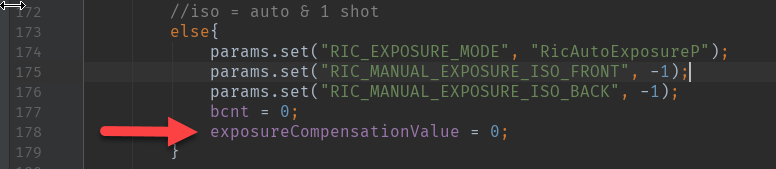
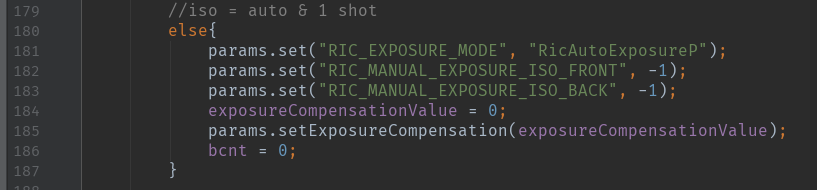
updated docs for 7 image modification

Changed region(s): [[0.1237, 0.0296, 0.9588, 0.9172], [0.0, 0.0, 0.0619, 1.0], [0.9278, 0.3254, 0.9588, 0.355]]

diff --git a/docs/fisheye.md b/docs/fisheye.md
@@ -314,45 +314,40 @@ tutorial, we will use this variable to move the exposure compensation from -6 to
 
 #### 3. Reset Bracket Count and exposureCompensationValue
 
-At roughly line 167, reset the variable bcnt to the numberOfImages.
+At roughly line 175, reset the variable bcnt to the numberOfImages.
 
 Set exposureCompensationValue to -6.
+Set bcnt to numberOfImages.
 
 ![Reset Bracket Count](example/img/fisheye/reset-bcnt.png)
 
-Note that in the example above, I needed to adjust the RIC_EXPOSURE_MODE to 
+Note that in the example above, RIC_EXPOSURE_MODE is set to 
 RicAutoExposureP for the EV compensation to take effect. The current
 Camera API documentation indicates that only *RicAutoExposureT*, 
-*RicAutoExposureP*, or *RicAutoExposureWDR* can set exposure compensation.
+*RicAutoExposureP*, or *RicAutoExposureWDR* can set 
+exposure compensation.
 
 In single shot mode, the exposureCompensation will be zero.
 
 ![Single shot](example/img/fisheye/exposureCompensationZero.png)
 
 If you have any problems following this example, you can also copy and
-paste the relevant sections from the completed file on GitHub 
-[MainActivity.java](https://github.com/codetricity/theta-7-image-dual-fisheye/blob/master/app/src/main/java/com/theta360/pluginapplication/MainActivity.java).
+paste the relevant sections from the completed file on GitHub, 7-image branch.
 
 
 #### 4. Locate nextShutter()
 
-At roughly line 192, identify the section for `nextShutter()`
+At roughly line 203, identify the section for `nextShutter()`
 
 ![nextShutter()](example/img/fisheye/next-shutter.png)
 
-#### 5. Create if statement for modification
+#### 5. Locate bracket section
 
-We will use an if statement to isolate your modification and preserve
-the original 3 image algorithm as a reference.
+At roughly line 211, look for the line `if(bcnt > 0)`. 
 
-At roughly line 200, look for the line `if(bcnt > 0)`. Inside that 
-statement create an if statement under the line, 
+![if bcnt](example/img/fisheye/if-bcnt.png)
 
-    params.set("RIC_SHOOTING_MODE", "RicStillCaptureStd");
-
-Below this line, add `if (numberOfImages == 7) {}`
-
-![if statement](example/img/fisheye/if-statement.png)
+The code after the `else` statement handles single shot mode.
 
 #### 6. Review Exposure Compensation API 
 
@@ -384,14 +379,16 @@ The code for setting exposure compensation is shown below.
     if(bcnt > 0) {
         params = mCamera.getParameters();
         params.set("RIC_SHOOTING_MODE", "RicStillCaptureStd");
-        if (numberOfImages == 7) {
-            params.setExposureCompensation(exposureCompensationValue);
-            exposureCompensationValue = exposureCompensationValue + 2;
-        } else {
-            params.setExposureCompensation(3 * ((bcnt - 2)));
-        }
+        exposureCompensationValue = exposureCompensationValue + 2;
+        params.setExposureCompensation(exposureCompensationValue);
 
         bcnt = bcnt - 1;
+        mCamera.setParameters(params);
+        Intent intent = new Intent("com.theta360.plugin.ACTION_AUDIO_SHUTTER");
+        sendBroadcast(intent);
+        mCamera.takePicture(null, null, null, pictureListener);
+    }
+    else{
 
 The EV of the images can be seen in this screenshot from Photoshop HDR Pro:
 
